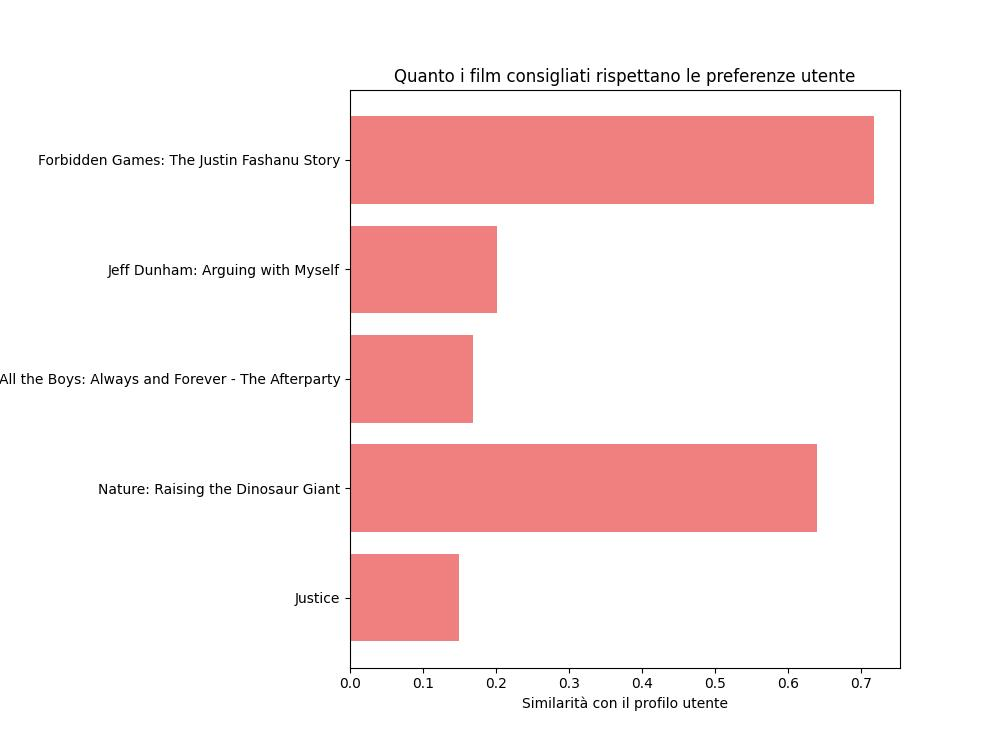
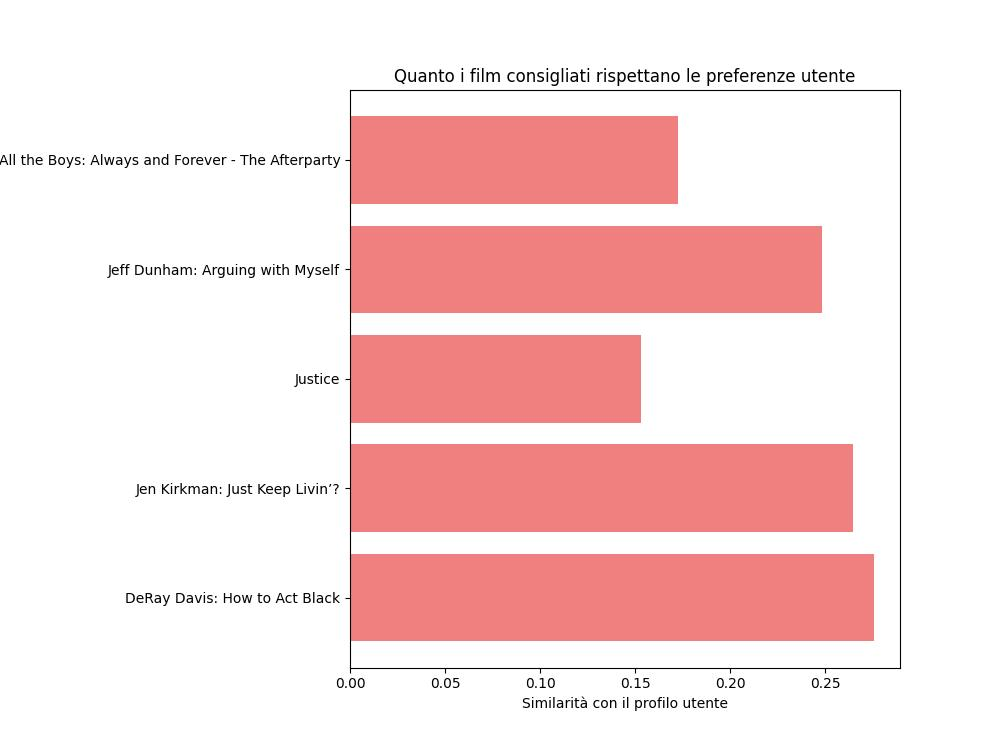
Aggiustamenti finali 1

diff --git a/utils/addestramento_supervisionato.py b/utils/addestramento_supervisionato.py
@@ -40,6 +40,10 @@ def prepare_dataset(dataframe):
     return X_final, dataframe
 
 
+import random
+import shutil
+import textwrap
+
 def ask_user_ratings(dataframe, num_ratings=20):
     """
     Chiede all'utente di valutare un numero specifico di film, raccogliendo sia valutazioni effettive che giudizi di ispirazione.
@@ -58,6 +62,10 @@ def ask_user_ratings(dataframe, num_ratings=20):
     available_indices = list(range(len(dataframe)))  # Lista di indici disponibili per la selezione
     random.shuffle(available_indices)  # Mescola gli indici per proporre film casualmente
 
+    # Ottiene la larghezza attuale del terminale e imposta un valore minimo di 120 caratteri
+    terminal_width = shutil.get_terminal_size().columns
+    wrap_width = max(120, terminal_width - 20)
+
     print("Valutazione dei film. Rispondi con un numero da 1 a 10, scrivi 'skip' per saltare o 'stop' per terminare.")
 
     while len(user_ratings) < num_ratings and available_indices:
@@ -66,34 +74,44 @@ def ask_user_ratings(dataframe, num_ratings=20):
 
         print(f"\nTitolo: {film['Titolo']}")
         print(f"Generi: {film['Generi']}")
-        print(f"Descrizione: {film['Descrizione']}")
+        # Formatta la descrizione per rispettare la larghezza massima
+        wrapped_description = textwrap.fill(film['Descrizione'], width=wrap_width)
+        print(f"Descrizione:\n{wrapped_description}")
 
-        visto = input("Hai visto questo film? (sì/no/skip/stop): ").strip().lower()
+        while True:
+            visto = input("Hai visto questo film? (sì/no/skip/stop): ").strip().lower()
 
-        if visto == "stop":
-            break  # L'utente interrompe il processo
+            if visto == "stop":
+                return None  # Termina immediatamente il processo
 
-        if visto == "skip":
-            continue  # Non conta la valutazione e passa al film successivo
+            if visto == "skip":
+                break  # Non conta la valutazione e passa al film successivo
 
-        if visto == "sì":
-            while True:
-                voto = input("Dai un voto da 1 a 10: ")
-                if voto.isdigit() and 1 <= int(voto) <= 10:
-                    user_ratings[idx] = (int(voto), 1.0)  # Peso pieno per film visti
-                    break
-                else:
-                    print("Inserisci un numero valido da 1 a 10.")
-        else:
-            while True:
-                voto = input("Quanto ti ispira, da 1 a 10?: ")
-                if voto.isdigit() and 1 <= int(voto) <= 10:
-                    user_ratings[idx] = (int(voto), 0.6)  # Peso ridotto per valutazioni di ispirazione
-                    break
-                else:
-                    print("Inserisci un numero valido da 1 a 10.")
+            if visto == "si":
+                while True:
+                    voto = input("Dai un voto da 1 a 10: ")
+                    if voto.isdigit() and 1 <= int(voto) <= 10:
+                        user_ratings[idx] = (int(voto), 1.0)  # Peso pieno per film visti
+                        break
+                    else:
+                        print("Inserisci un numero valido da 1 a 10.")
+                break  # Esce dal ciclo "visto"
+
+            elif visto == "no":
+                while True:
+                    voto = input("Quanto ti ispira, da 1 a 10?: ")
+                    if voto.isdigit() and 1 <= int(voto) <= 10:
+                        user_ratings[idx] = (int(voto), 0.6)  # Peso ridotto per valutazioni di ispirazione
+                        break
+                    else:
+                        print("Inserisci un numero valido da 1 a 10.")
+                break  # Esce dal ciclo "ispirazione"
+
+            else:
+                print("Risposta non valida, riprova.")  # Ripete la richiesta di input
 
     return user_ratings
+
 
 
 def simulate_user_ratings(dataframe, num_ratings=20):
@@ -172,6 +190,7 @@ def recommend_movies(model, X, dataframe, user_ratings, top_n=5):
     - Ordina i film in base al punteggio previsto, dal più alto al più basso.
     - Seleziona i top_n film con il punteggio più alto e li stampa con dettagli.
 
+    :param user_ratings: Film valutati dall'utente.
     :param model: Modello di regressione addestrato.
     :param X: Matrice delle feature dei film.
     :param dataframe: DataFrame contenente i dati dei film.
@@ -182,19 +201,25 @@ def recommend_movies(model, X, dataframe, user_ratings, top_n=5):
     # Predice i voti per tutti i film basandosi sulle feature fornite
     predicted_ratings = model.predict(X)
 
-    # Ordina gli indici dei film in base ai voti previsti in ordine decrescente
-    recommended_indices = np.argsort(predicted_ratings)[::-1]
+    # Ottiene gli indici dei film già visti (peso >= 0.9)
+    watched_movie_indices = {idx for idx, (_, weight) in user_ratings.items() if weight >= 0.9}
 
-    # Ottiene gli indici dei film già visti (peso = 1)
-    watched_movie_indices = {idx for idx, (_, weight) in user_ratings.items() if weight == 1}
+    # Crea un array di indici validi escludendo i film già visti
+    valid_indices = [idx for idx in dataframe.index if idx not in watched_movie_indices]
 
-    # Filtra gli indici per escludere i film già visti
-    recommended_indices = [idx for idx in recommended_indices if idx not in watched_movie_indices]
+    # Filtra le predizioni mantenendo solo i film non visti
+    filtered_ratings = predicted_ratings[valid_indices]
+
+    # Ordina gli indici filtrati in base ai voti previsti in ordine decrescente
+    sorted_indices = np.argsort(filtered_ratings)[::-1]
+
+    # Recupera gli indici originali dei film consigliati
+    recommended_indices = [valid_indices[idx] for idx in sorted_indices]
 
     # Seleziona i primi top_n film raccomandati
     recommended_movies = dataframe.iloc[recommended_indices[:top_n]]
 
-    # Ottiene la larghezza attuale del terminale e imposta un valore minimo di 80 caratteri
+    # Ottiene la larghezza attuale del terminale e imposta un valore minimo di 120 caratteri
     terminal_width = shutil.get_terminal_size().columns
     wrap_width = max(120, terminal_width - 20)
 
@@ -303,6 +328,10 @@ def user_testing_sup_train(dataframe, stampe=False):
 
     # Raccolta delle valutazioni dell'utente
     user_ratings = ask_user_ratings(sup_dataframe)
+
+    if user_ratings is None:
+        print("Operazione annullata...")
+        return
 
     # Addestramento del modello supervisionato basato sulle valutazioni dell'utente
     model = train_model(X, user_ratings)
